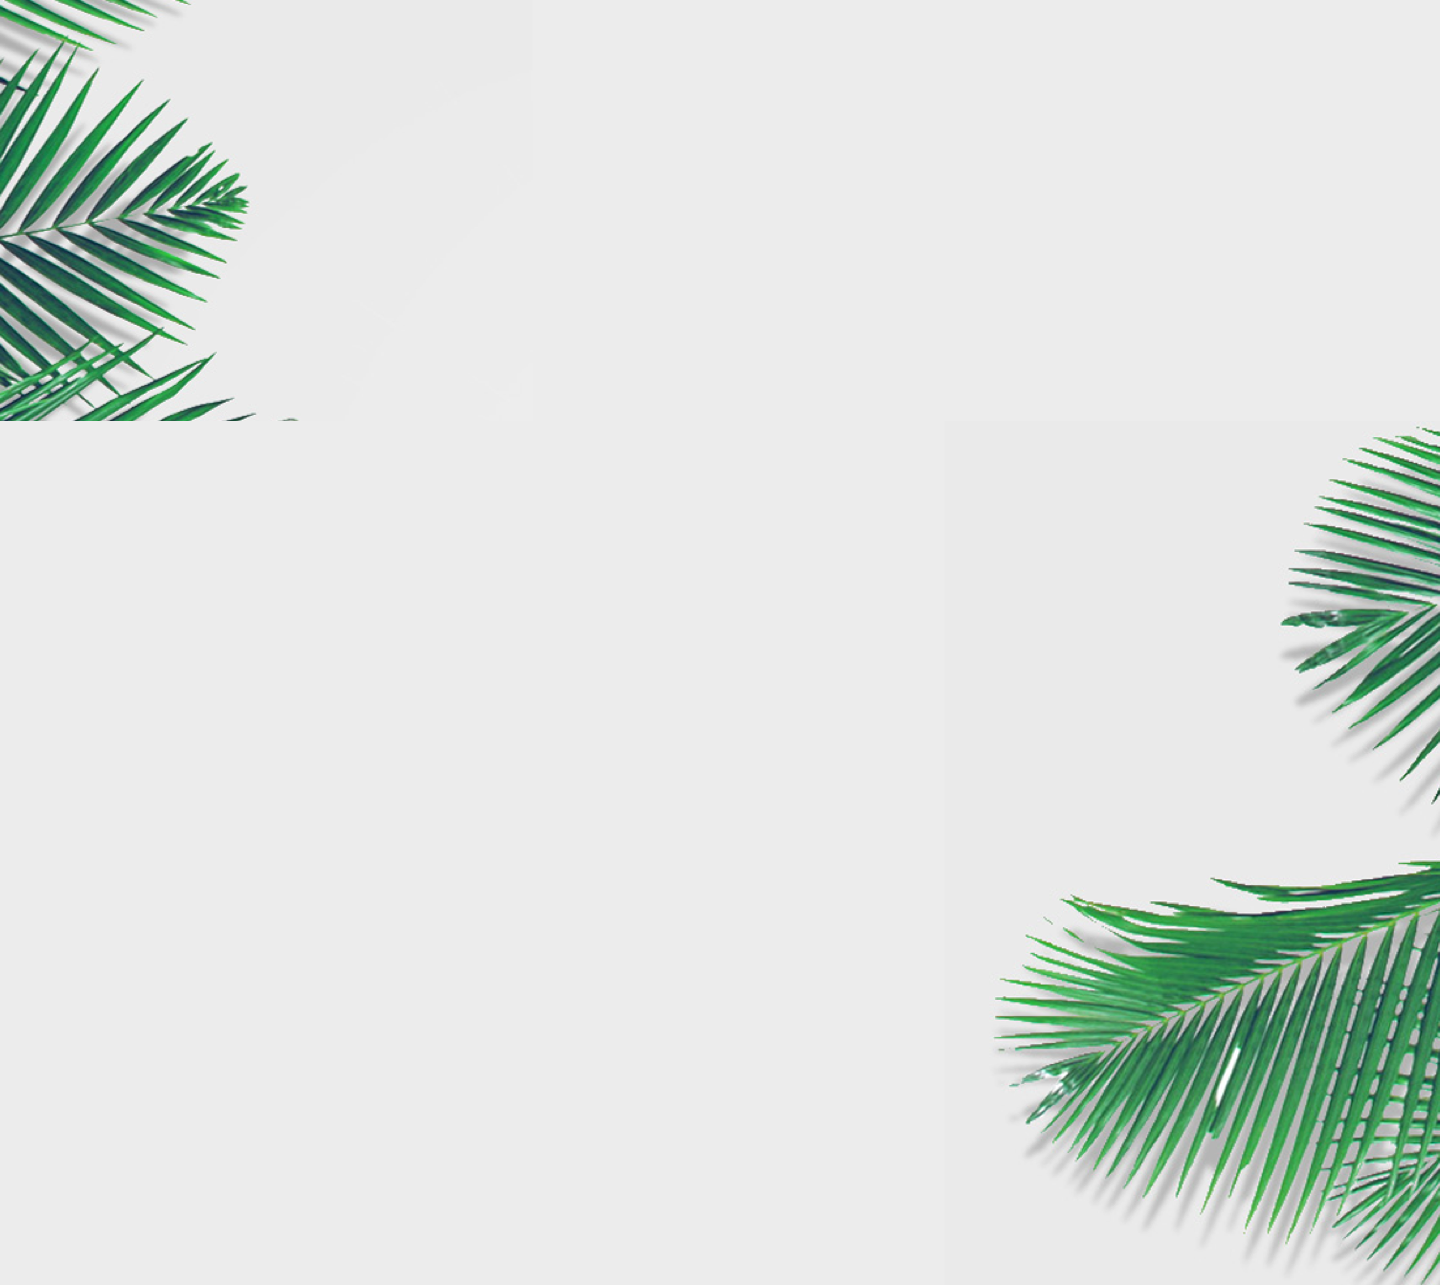
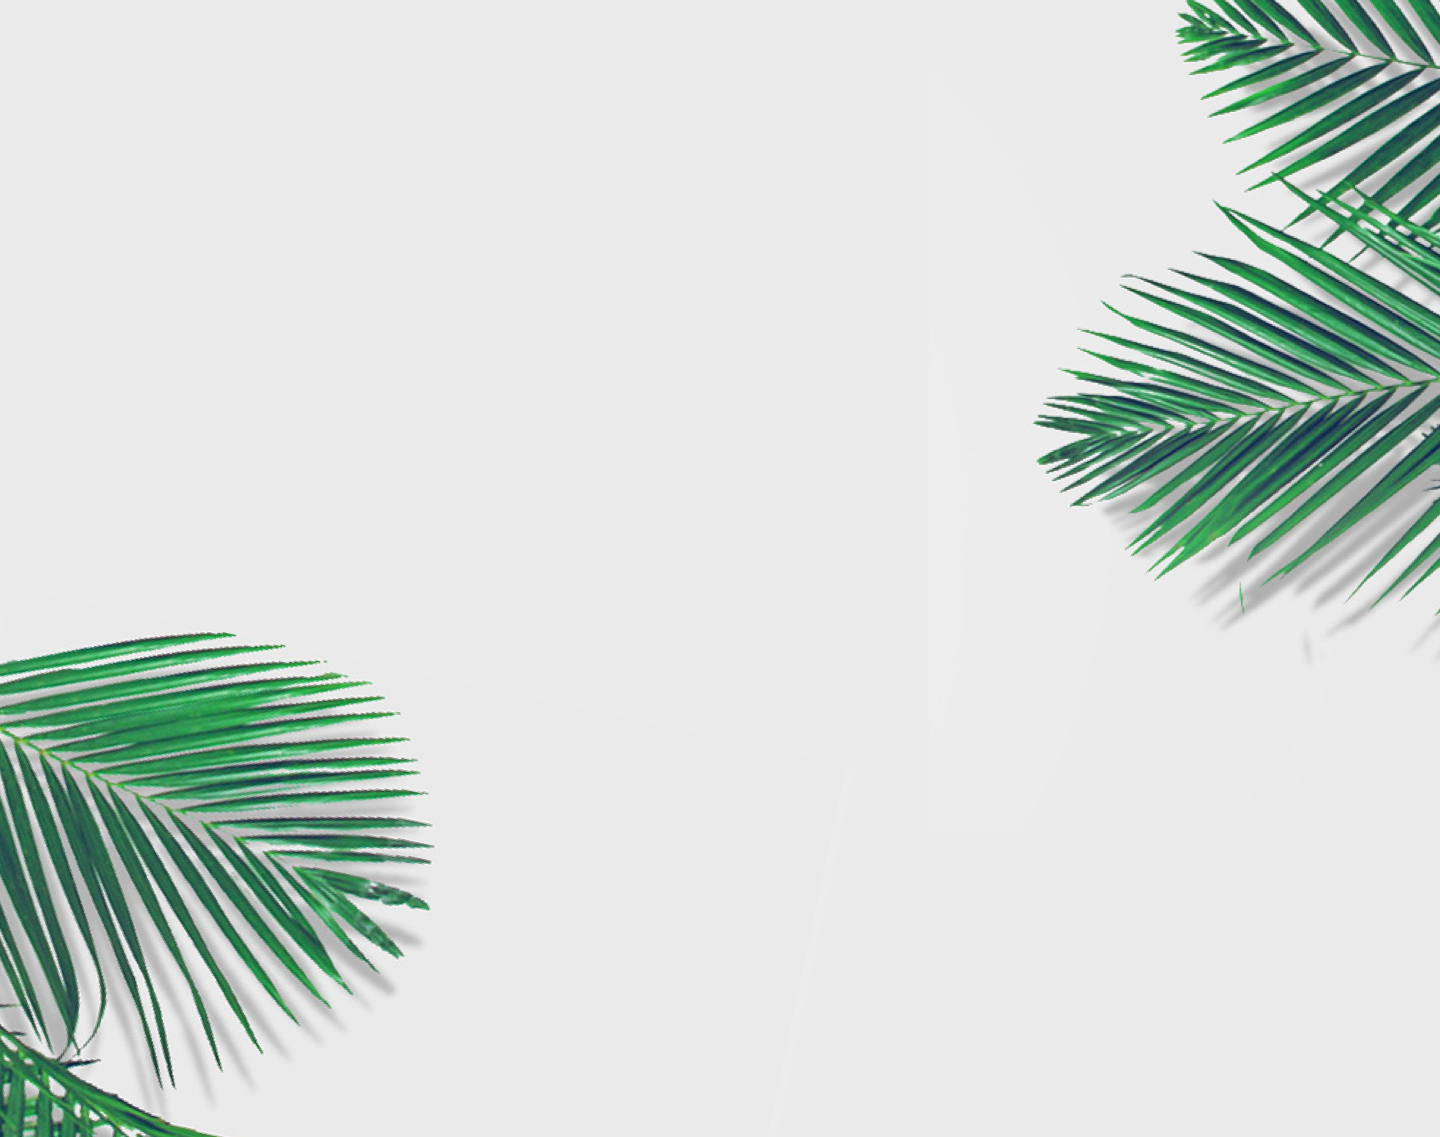
update bg

diff --git a/resources/sass/main.scss b/resources/sass/main.scss
@@ -223,6 +223,10 @@ a{
      }
  }
 
+ .btn{
+     font-size: 16px;
+ }
+
  .btn.btn-m, .btn-m.disabled {
     box-shadow: none;
     border-radius: 0;

diff --git a/public/css/main.css b/public/css/main.css
@@ -246,6 +246,10 @@ a:hover {
   display: block;
 }
 
+.btn {
+  font-size: 16px;
+}
+
 .btn.btn-m,
 .btn-m.disabled {
   box-shadow: none;

diff --git a/resources/views/frontend/about-us.blade.php b/resources/views/frontend/about-us.blade.php
@@ -106,7 +106,7 @@
     </div>
 </div>
 
-<div class="pallex1" style="background-image: url('/images/h-home.png');position: relative;">
+<div class="pallex1" style="background-image: url('/images/bg-timeline.png');position: relative;">
     <div class="w-100 h-100 pt-4 pb-4" style="position: absolute;background: rgba(255, 255, 255, 0.4);">
         <div class="container text-center">
             <h4>

diff --git a/resources/views/frontend/product.blade.php b/resources/views/frontend/product.blade.php
@@ -35,7 +35,7 @@
     
 @endcomponent
 
-<div class="bg-img" style="background-image: url('/images/bg1.png')">
+<div class="bg-img" style="background-image: url('/images/bg-ourproduct.png')">
 <div class="container pt-5 pb-5">
     <div class="row">
         @foreach ($products as $item)
